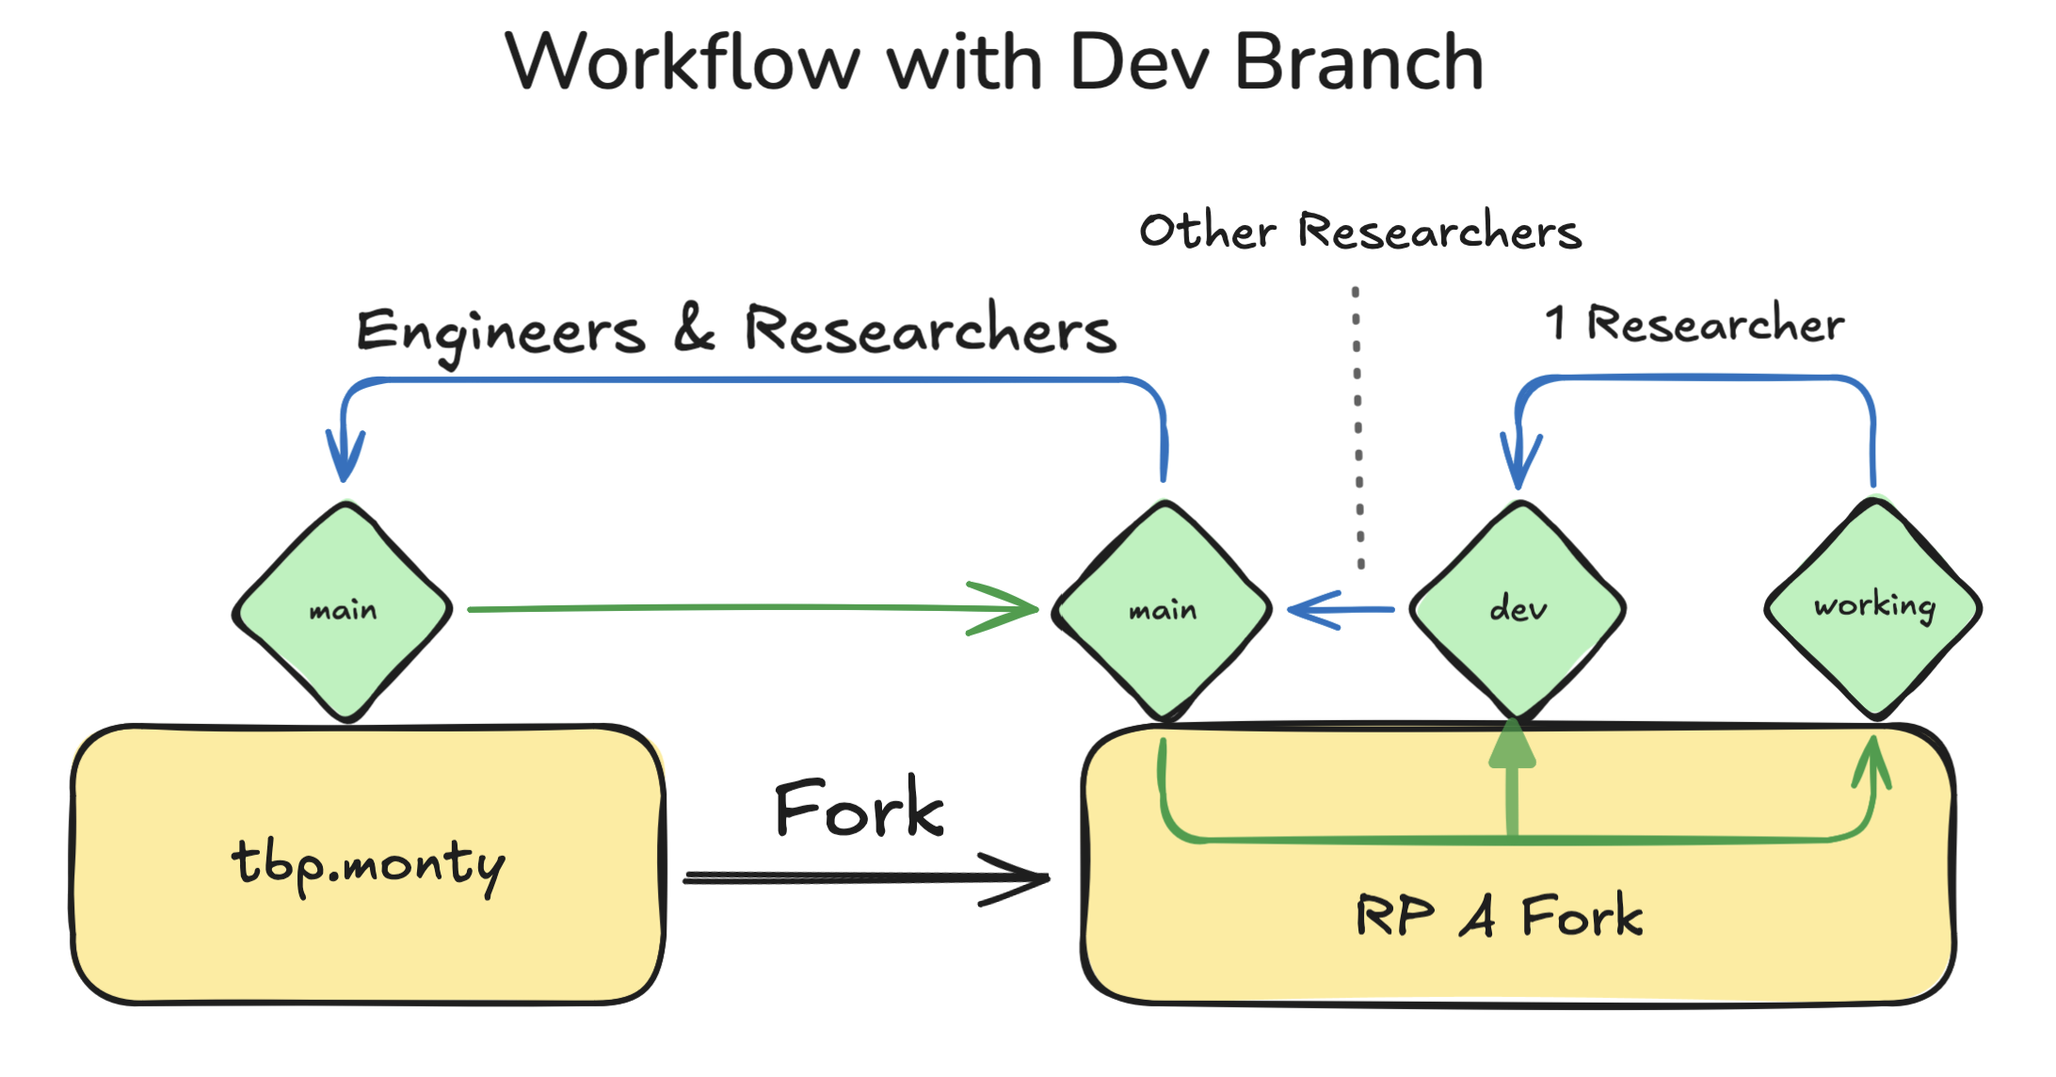
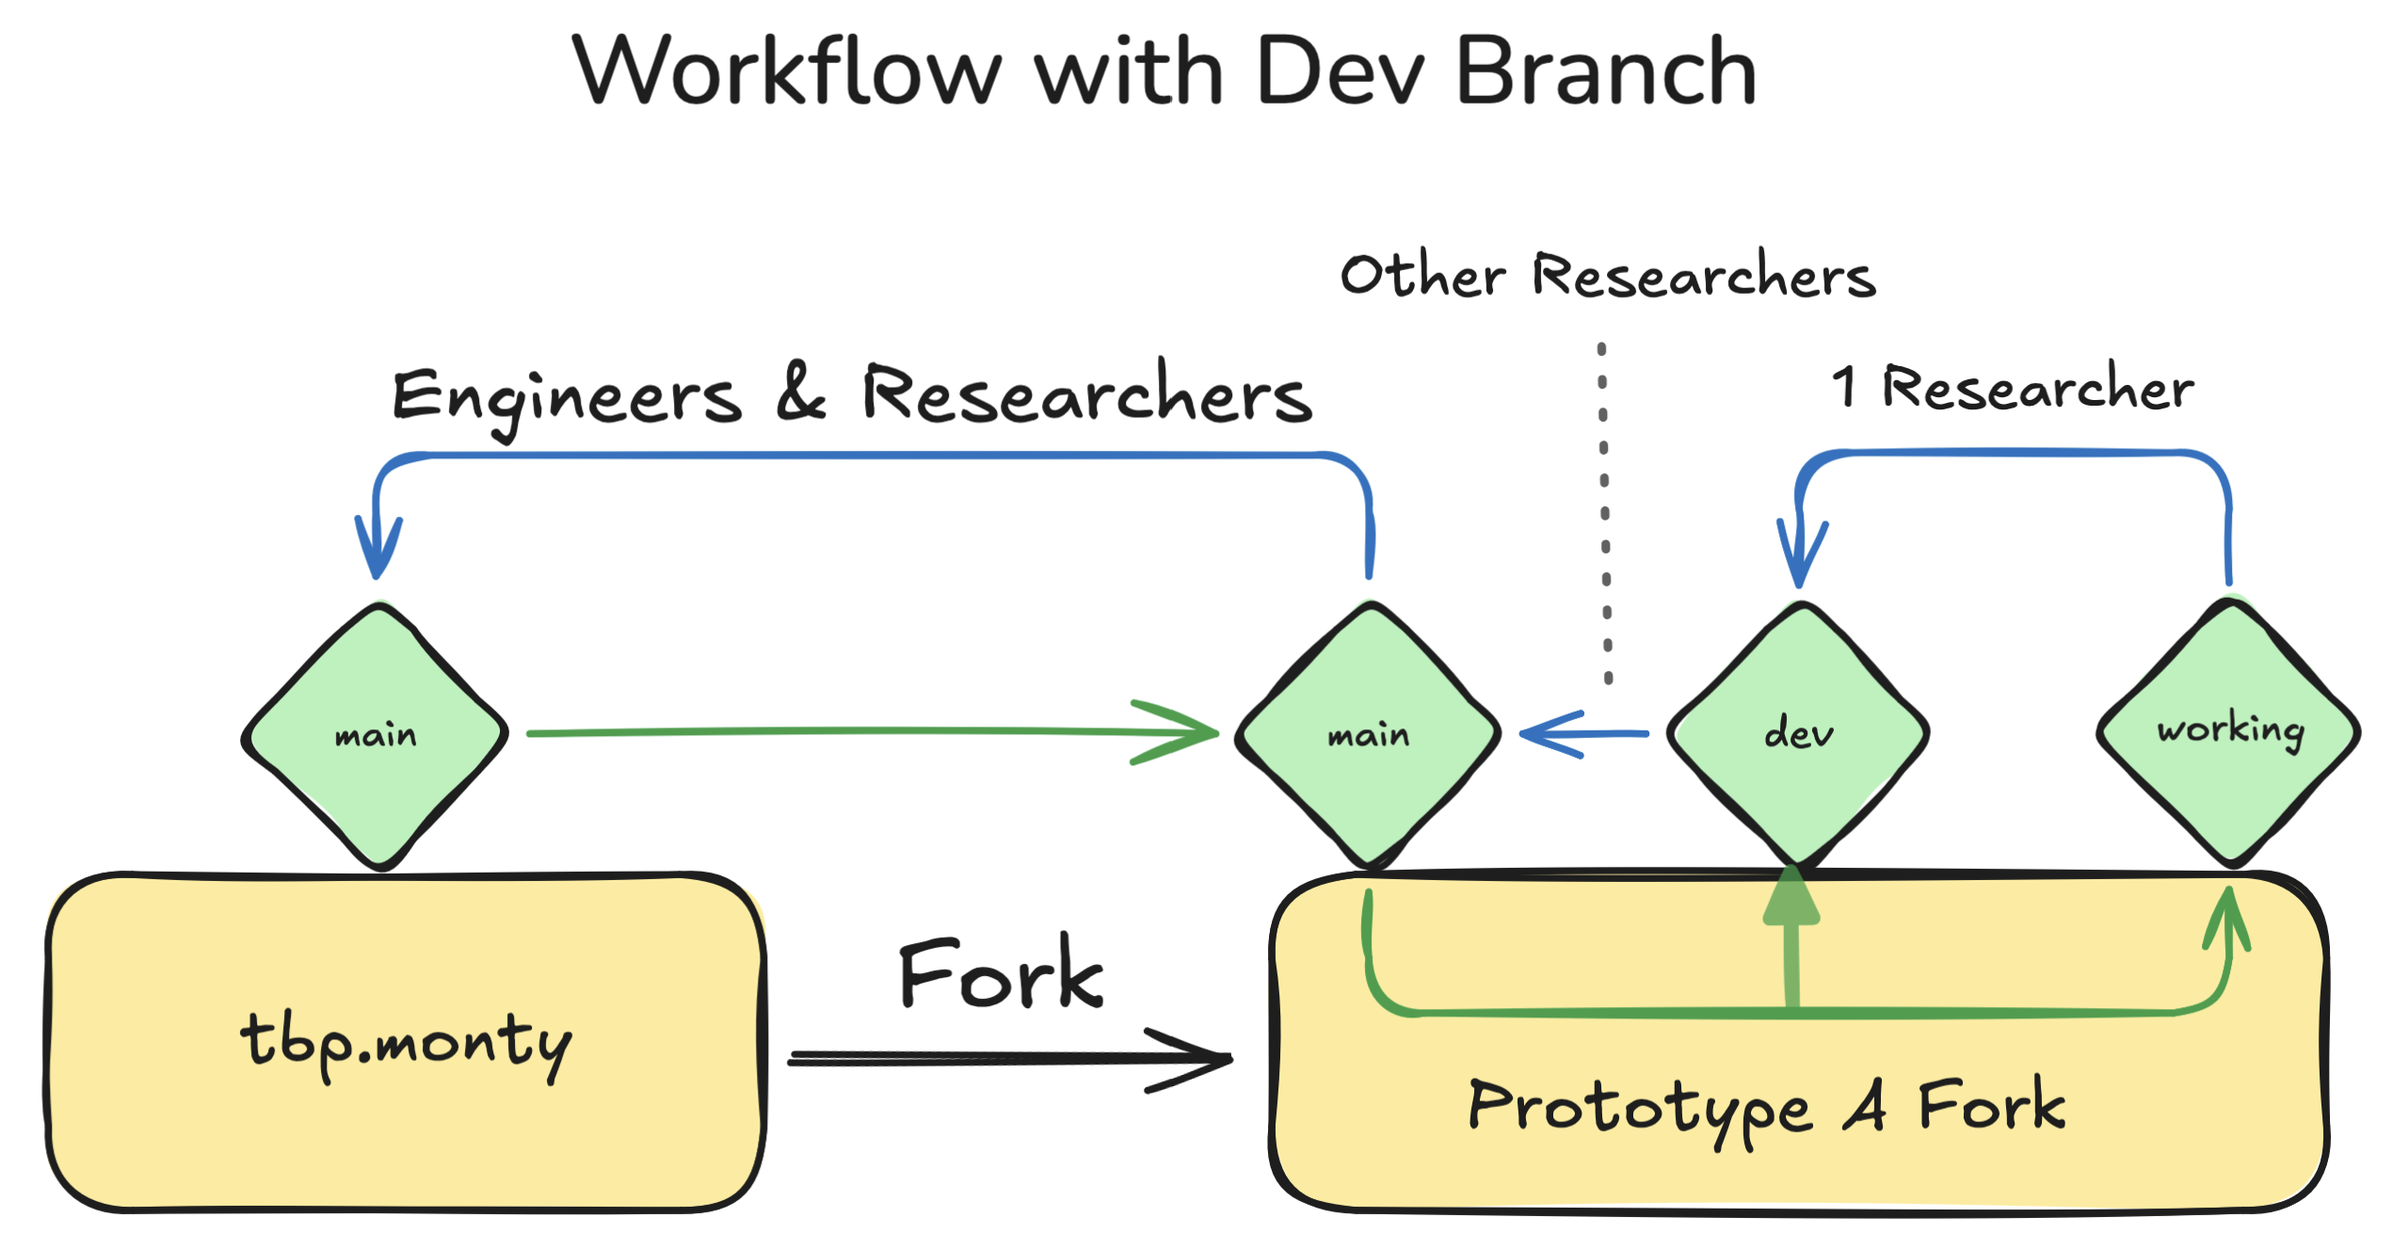
Update to using Prototype terminology

diff --git a/rfcs/0000_code_guidance_for_researchers_and_community.md b/rfcs/0000_code_guidance_for_researchers_and_community.md
@@ -13,45 +13,45 @@ When this RFC is merged, the intent is to transfer most of its contents into an 
 
 # Definitions
 
-- *Research Prototype (RP)*: A rapidly implemented feature intended to evaluate a research idea. This can establish or refute the hypothesized benefits of the idea, as well as enable measuring other qualities associated with it.
-- *Implementation Project (IP)*: The process of refactoring a Research Prototype (as well as potentially `tbp.monty` itself) in order to merge a feature that was proven useful by an RP into the platform code-base (`thousandbrainsproject/tbp.monty`).
+- *Prototype*: A rapidly implemented feature intended to evaluate a research idea. This can establish or refute the hypothesized benefits of the idea, as well as enable measuring other qualities associated with it.
+- *Implementation Project (IP)*: The process of refactoring a Prototype (as well as potentially `tbp.monty` itself) in order to merge a feature that was proven useful by a Prototype into the platform code-base (`thousandbrainsproject/tbp.monty`).
 
 # Guidance on Research Workflows
 
 As earlier noted, the following guidance is designed to complement [RFC 14 Conducting Research While Building a Stable Platform](https://github.com/thousandbrainsproject/tbp.monty/blob/main/rfcs/0014_conducting_research_while_building_a_stable_platform.md). Please refer to that RFC first if you are not familiar with its contents.
 
-## Workflow for TBP Researchers: from Research Prototype to Implementation Project
+## Workflow for TBP Researchers: from Prototype to Implementation Project
 
 Below is a recommended workflow for researchers; however, it is guidance only, and can be revisited if we find certain elements are not working.
 
 ### Setup
-1. Begin a new Research Prototype by creating a fork of [tbp.monty](https://github.com/thousandbrainsproject/tbp.monty/):
+1. Begin a new Prototype by creating a fork of [tbp.monty](https://github.com/thousandbrainsproject/tbp.monty/):
 
 
 When creating the fork, the owner should be set to the `thousandbrainsproject` organization:
 
-<img src="0000_code_guidance_for_researchers_and_community/create_new_RP_fork.png" alt="Create New Research Prototype Fork" width="500">
+<img src="0000_code_guidance_for_researchers_and_community/create_new_Prototype_fork.png" alt="Create New Prototype Fork" width="500">
 
-Give your fork a name like `feat.description_of_prototype` (for other examples of prefixes we use, see [RFC 10 - Conventional Commits](0010_conventional_commits.md); most RPs would best be described as `feat` or `perf` changes):
+Give your fork a name like `feat.description_of_prototype` (for other examples of prefixes we use, see [RFC 10 - Conventional Commits](0010_conventional_commits.md); most Prototypes would best be described as `feat` or `perf` changes):
 
-<img src="0000_code_guidance_for_researchers_and_community/RP_fork_name.png" alt="Naming your Fork" width="500">
+<img src="0000_code_guidance_for_researchers_and_community/Prototype_fork_name.png" alt="Naming your Fork" width="500">
 
-If your RP is related to a particular [RFC](https://thousandbrainsproject.readme.io/docs/request-for-comments-rfc), it can be helpful to link to this RFC in the fork description, which will appear under the About heading.
+If your Prototype is related to a particular [RFC](https://thousandbrainsproject.readme.io/docs/request-for-comments-rfc), it can be helpful to link to this RFC in the fork description, which will appear under the About heading.
 
 2. Clone the new fork, and then create a new development branch that is appropriately named.
     - Your fork should now have a `main` branch, and a feature branch or branches where you will carry out active work.
 
 ### Workflow
-- The aim is to progressively implement the Research Prototype via a series of PRs into the `main` branch of your RP fork.
+- The aim is to progressively implement the Prototype via a series of PRs into the `main` branch of your Prototype fork.
     - Please try to formulate PRs into the main branch as _atomic_ PRs for review by other researchers.
     - Note that _atomic_ does not always mean small, although it is a common finding that PRs (especially by researchers!) are too large. Rather, atomic means that the PR represents a full, minimally self-contained change. The PR should not depend on code that will be added in the future, although context can be provided where helpful re. future changes.
 - When you open a PR into your fork's `main` branch, it is generally recommended that you tag at least one other TBP researcher for review.
-    - The aim is that RP work should be regularly reviewed and discussed with other researchers; getting reviews early, particularly for complex or conceptually important changes, reduces the chance that significant effort will be spent on a change that might be in a suboptimal direction.
+    - The aim is that Prototype work should be regularly reviewed and discussed with other researchers; getting reviews early, particularly for complex or conceptually important changes, reduces the chance that significant effort will be spent on a change that might be in a suboptimal direction.
     - However, researchers should use their own judgement to weigh the benefits of reviews on every atomic change against the benefit of quick iteration and experimentation.
-- During your work, it is recommended that you regularly update your fork and its branches with any upstream changes to `thousandbrainsproject/tbp.monty`. This will reduce the chance that a longer RP-project is associated with significant merge conflicts when you later wish to merge it into the primary Monty code-base.
+- During your work, it is recommended that you regularly update your fork and its branches with any upstream changes to `thousandbrainsproject/tbp.monty`. This will reduce the chance that a longer Prototype-project is associated with significant merge conflicts when you later wish to merge it into the primary Monty code-base.
     - NOTE: if pulling from upstream ever introduces breaking changes, then rather than try to resolve them at that time, the recommendation is to revert to the pre-merge commit. Any breaking merge conflicts can then be dealt with later during the IP. Recall however that regularly pulling from upstream can often avoid getting into this situation, as it is less likely that you end up working on a piece of code at the same time as someone else.
-- When a research prototype has been fully implemented and its merits established through evaluations and visualizations, the `main` branch is ready to form the basis of an Implementation Project.
-- The Implementation Project (IP) involves any necessary refactoring of the Research Prototype to ensure it adheres to the [guidelines of the platform](https://thousandbrainsproject.readme.io/docs/code-style-guide) before merging into `tbp.monty`. For more information, see [the description of the IP process in RFC 14 Conducting Research While Building a Stable Platform](https://github.com/thousandbrainsproject/tbp.monty/blob/main/rfcs/0014_conducting_research_while_building_a_stable_platform.md#implementation-project).
+- When a Prototype has been fully implemented and its merits established through evaluations and visualizations, the `main` branch is ready to form the basis of an Implementation Project.
+- The Implementation Project (IP) involves any necessary refactoring of the Prototype to ensure it adheres to the [guidelines of the platform](https://thousandbrainsproject.readme.io/docs/code-style-guide) before merging into `tbp.monty`. For more information, see [the description of the IP process in RFC 14 Conducting Research While Building a Stable Platform](https://github.com/thousandbrainsproject/tbp.monty/blob/main/rfcs/0014_conducting_research_while_building_a_stable_platform.md#implementation-project).
 - As a brief summary of the IP process, please see the below extract:
 
 > The implementation project is a project because it may require major refactoring of the prototype or of Monty in order to integrate the new capability. It may be a single pull request, or it may be a long running effort as we reorganize all of Monty. The working prototype is helpful as it becomes a working specification of what needs to be implemented.
@@ -66,14 +66,14 @@ The workflow is shown in the below diagram:
 
 Green arrows indicate pulling from upstream, blue arrows indicate PRs. Above the blue arrows, a suggestion is provided for whether a researcher or engineer would more suitable to review the PR. If you are contributing as a non-Maintainer, it will be the responsibility of the Maintainer you tag to determine who is most suitable to review the PR. NOTE that when implementing the IP, a researcher will pair with an engineer (i.e. it is not solely the responsibility of engineers to handle the IP process from start to finish).
 
-Below shows the potential follow-up workflow. In the example shown, the first RP (RP "A") did not demonstrate significant benefit, and the fork is archived without ever going through the IP process. A new fork is made to work on a new RP / feature.
+Below shows the potential follow-up workflow. In the example shown, the first Prototype (Prototype "A") did not demonstrate significant benefit, and the fork is archived without ever going through the IP process. A new fork is made to work on a new Prototype / feature.
 
 <img src="0000_code_guidance_for_researchers_and_community/follow_up_workflow.png" alt="Follow-up Workflow with a Second Fork" width="900">
 
 
 ### Regarding Code Quality Specified in Other Guideline
-- When writing code for the RP, you may choose to follow the [official guidance for the platform](https://thousandbrainsproject.readme.io/docs/code-style-guide). 
-- The advantage of doing so while working on the RP is that it can reduce the amount of work required for the IP stage.
+- When writing code for the Prototype, you may choose to follow the [official guidance for the platform](https://thousandbrainsproject.readme.io/docs/code-style-guide). 
+- The advantage of doing so while working on the Prototype is that it can reduce the amount of work required for the IP stage.
 - However, adhering to these guidelines is often not possible without first carrying out a significant refactor of the code, or through a time-consuming design process.
 - As such, researchers should not follow these guidelines if it will introduce significant delays. Rather, the guidance they provide (e.g., being mindful of how state is added or accessed in code) can provide general tips for writing high-quality code from the beginning.
 
@@ -94,9 +94,9 @@ Below shows the potential follow-up workflow. In the example shown, the first RP
 - This approach is less well suited when significant parts of the existing code need to be altered in-place. While still doable, it can be challenging with this approach and a standard `diff` to see what is genuinely new.
 
 #### Feature Branches (Not Feature Forks)
-- Another possibility is using branches within existing personal forks as a way of managing Research Prototypes.
-- In this case, a new pair of branches is made in your personal fork whenever starting work on a Research Prototype.
-- We have decided that for internal use-cases, this risks becoming overwhelming with the number of RPs/features that we explore, so is generally best avoided.
+- Another possibility is using branches within existing personal forks as a way of managing Prototypes.
+- In this case, a new pair of branches is made in your personal fork whenever starting work on a Prototype.
+- We have decided that for internal use-cases, this risks becoming overwhelming with the number of Prototypes/features that we explore, so is generally best avoided.
 - However, if you are a member of the community doing research and you are unable to create multiple forks on your profile, this can be a good approach to adopt.
 
 This approach is shown diagrammatically below:
@@ -104,22 +104,22 @@ This approach is shown diagrammatically below:
 <img src="0000_code_guidance_for_researchers_and_community/single_fork_workflow.png" alt="Workflow with a Single Fork" width="900">
 
 
-### Discontinued Research Prototypes
-- Sometimes a research idea will not bear fruit. This is fine, indeed we expect this to happen from time to time, and it is the primary reason we expect the proposed workflow to be faster than merging all changes into `tbp.monty`. When an RP does not demonstrate a fundamental improvement, you should archive the fork in question.
-- When this happens, please consider adding some documentation to the README of the prototype explaining why the prototype failed, so that we can refer to this in the future.
+### Discontinued Prototypes
+- Sometimes a research idea will not bear fruit. This is fine, indeed we expect this to happen from time to time, and it is the primary reason we expect the proposed workflow to be faster than merging all changes into `tbp.monty`. When a Prototype does not demonstrate a fundamental improvement, you should archive the fork in question.
+- When this happens, please consider adding some documentation to the README of the Prototype explaining why the Prototype failed, so that we can refer to this in the future.
 
 ### Non-Prototype PRs from Researchers
 - Researchers may also open PRs directly into `thousandbrainsproject/tbp.monty`, such as a refactor that is useful for them or other researchers, and which is not specific to their current feature project.
-- This will often be desirable if it constrains the complexity of a Research Prototype, and improves the quality of the platform. 
-- However, such PRs should be of general benefit if they are to be opened in this way. In other words, even if a Research Prototype is ultimately abandoned and archived, PRs directly into `tbp.monty` should still have been useful on their own merits.
+- This will often be desirable if it constrains the complexity of a Prototype, and improves the quality of the platform. 
+- However, such PRs should be of general benefit if they are to be opened in this way. In other words, even if a Prototype is ultimately abandoned and archived, PRs directly into `tbp.monty` should still have been useful on their own merits.
 - When contemplating such PRs, it is important to consider when a change is suitable for a researcher to work on, vs. when it would benefit from an engineer's expertise. For example, major refactors, or features that are primarily about infrastructure tooling, are likely to be a poorer fit for a TBP researcher's focus.
 
 ### PRs without RFCs
 - Researchers are reminded that not all research work requires an [RFC](https://thousandbrainsproject.readme.io/docs/request-for-comments-rfc) before it can be carried out. For example, a significant idea might require a single line of code to evaluate, in which case it is quicker to simply make the change and report the results, rather than begin with the RFC process.
 
-### Multiple Researchers Working on a Single Research Prototype
-- From time-to-time, two or more researchers may be working on ideas that could be considered elements of a single, over-arching Research Prototype. In this case, it is perfectly acceptable for them to use a shared RP fork.
-- As with typical Research Prototypes, this work should still regularly be synced with the upstream `tbp.monty`. The main difference is that the collaborating researchers can submit PRs into this shared fork.
+### Multiple Researchers Working on a Single Prototype
+- From time-to-time, two or more researchers may be working on ideas that could be considered elements of a single, over-arching Prototype. In this case, it is perfectly acceptable for them to use a shared Prototype fork.
+- As with typical Prototypes, this work should still regularly be synced with the upstream `tbp.monty`. The main difference is that the collaborating researchers can submit PRs into this shared fork.
 - This enables them to each pull changes from this shared fork, minimizing the chance of merge conflicts if they are working on similar parts of the code.
 - When adopting this approach, it is advised that all researchers working on this shared fork adopt a collaborative workflow. The two main strategies for this are:
     - Pair programming: this can be an excellent way to make progress together on a complex feature that requires multiple perspectives, or is addressing shared objectives. If pair programming, it is also NOT necessary to have an additional PR review before merging code into you shared fork.
@@ -140,8 +140,8 @@ Following the above guidance will ensure you do not spend a large amount of time
 
 ### Workflow for Contributing Code
 
-If you are a member of the community working on a research idea, then we would recommend you also follow the above guidance under [Workflow for TBP Researchers: from Research Prototype to Implementation Project](#workflow-for-tbp-researchers-from-research-prototype-to-implementation-project). The main additional points to highlight are:
+If you are a member of the community working on a research idea, then we would recommend you also follow the above guidance under [Workflow for TBP Researchers: from Prototype to Implementation Project](#workflow-for-tbp-researchers-from-research-prototype-to-implementation-project). The main additional points to highlight are:
 - When creating the fork, you should set yourself as the owner (it will not be possible to set the Thousand Brains Project as the owner).
 - Unless you have a paid account, you will only be able to have a single personal fork of `tbp.monty`. If this is the case, you can follow the workflow described under [Feature Branches (Not Feature Forks)](#feature-branches-not-feature-forks).
 - We recommend that you tag a Maintainer of the TBP (i.e. using the `@` feature on GitHub) when making PRs into your feature branch. This will help get involvement from a Maintainer (including TBP research team members) at an early stage of your work. Once you have tagged a Maintainer, we will triage and determine the most appropriate member of the team to review the PR. In some instances, the Maintainer may abstain from reviewing these PRs.
-- Similarly, if you believe an RP is suitable to become an IP, you are welcome to tag one of the Maintainers to discuss this.
+- Similarly, if you believe a Prototype is suitable to become an IP, you are welcome to tag one of the Maintainers to discuss this.
